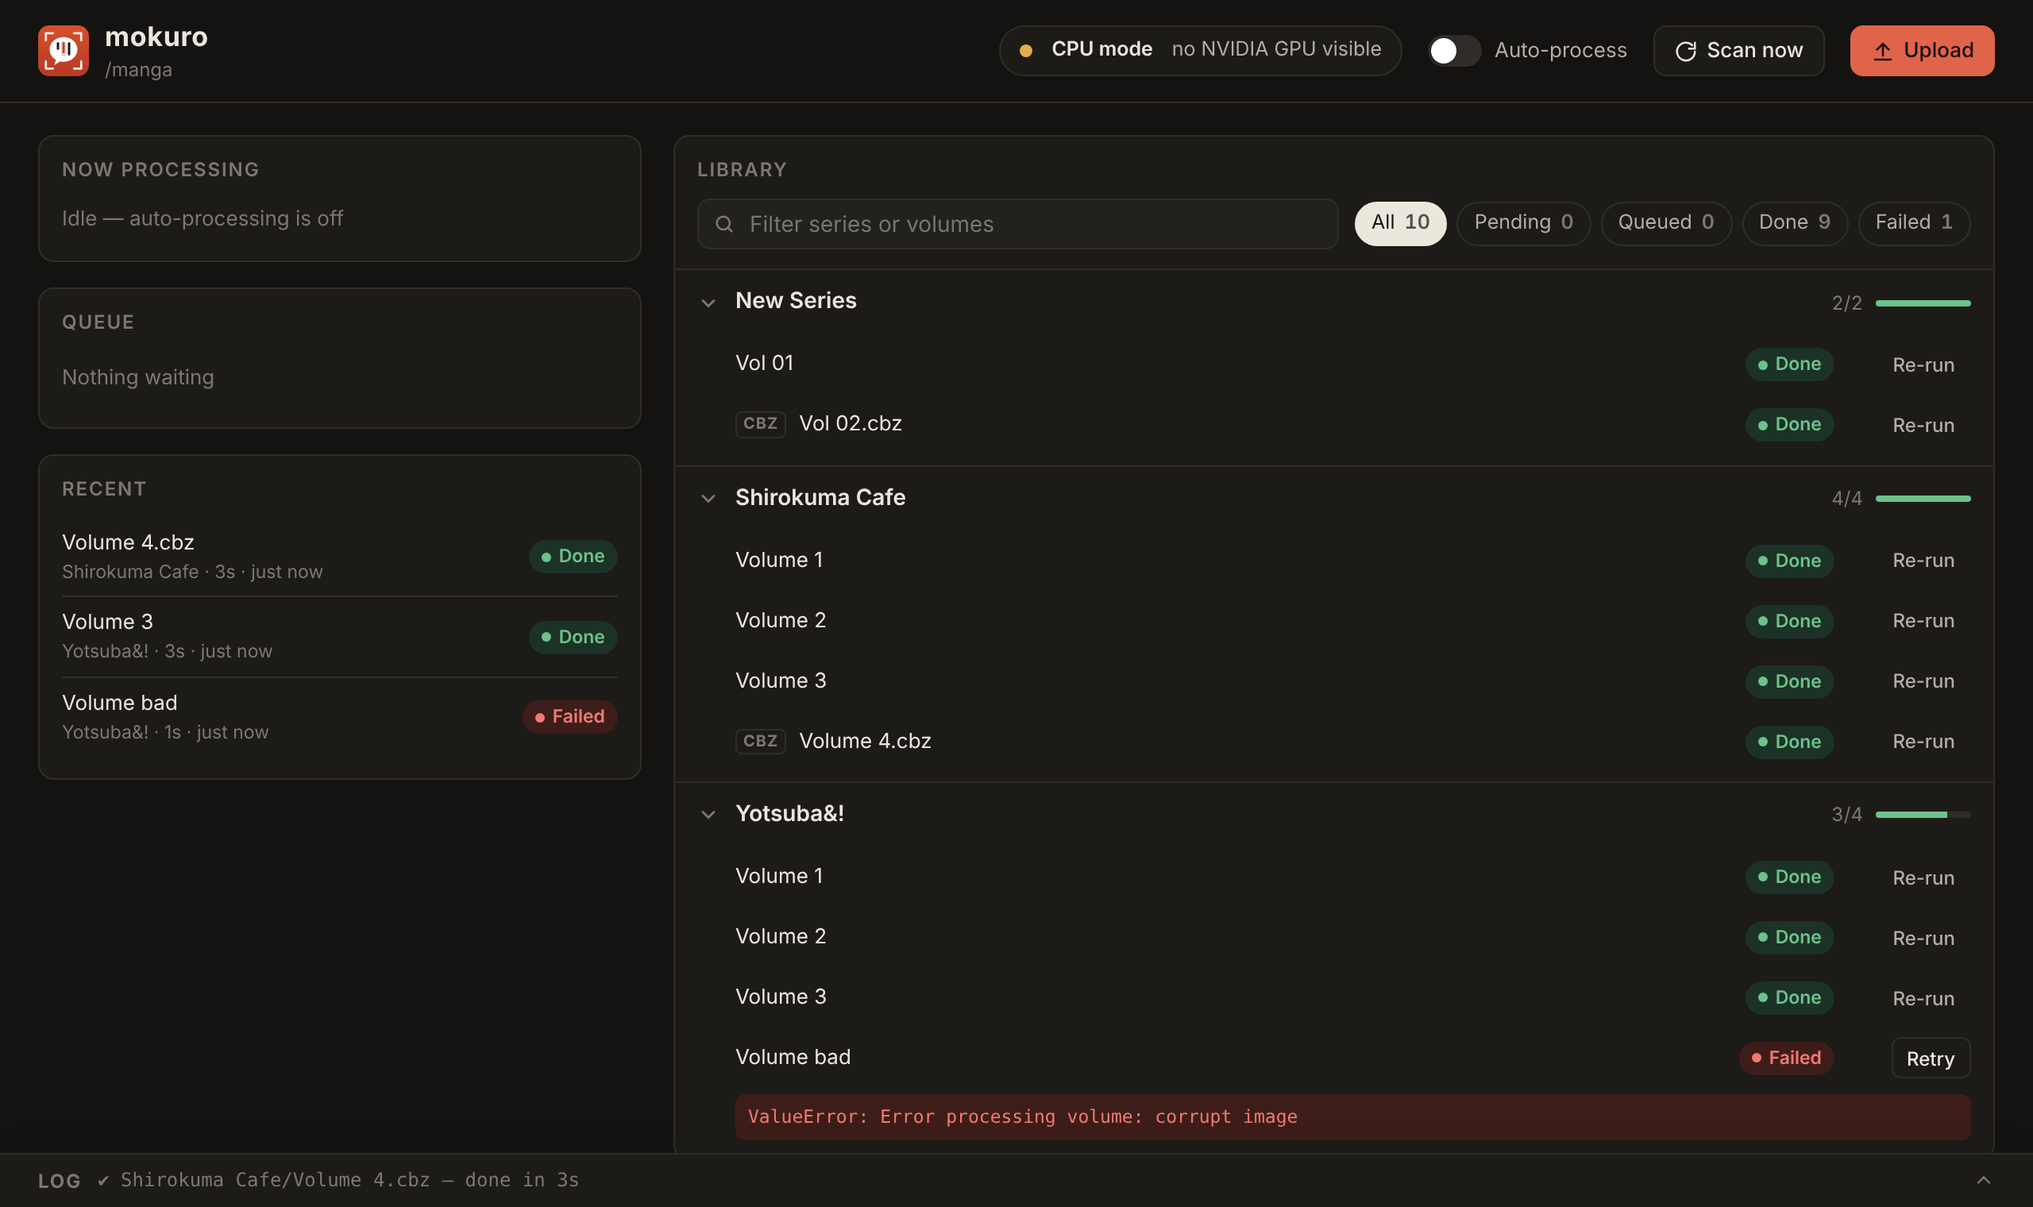
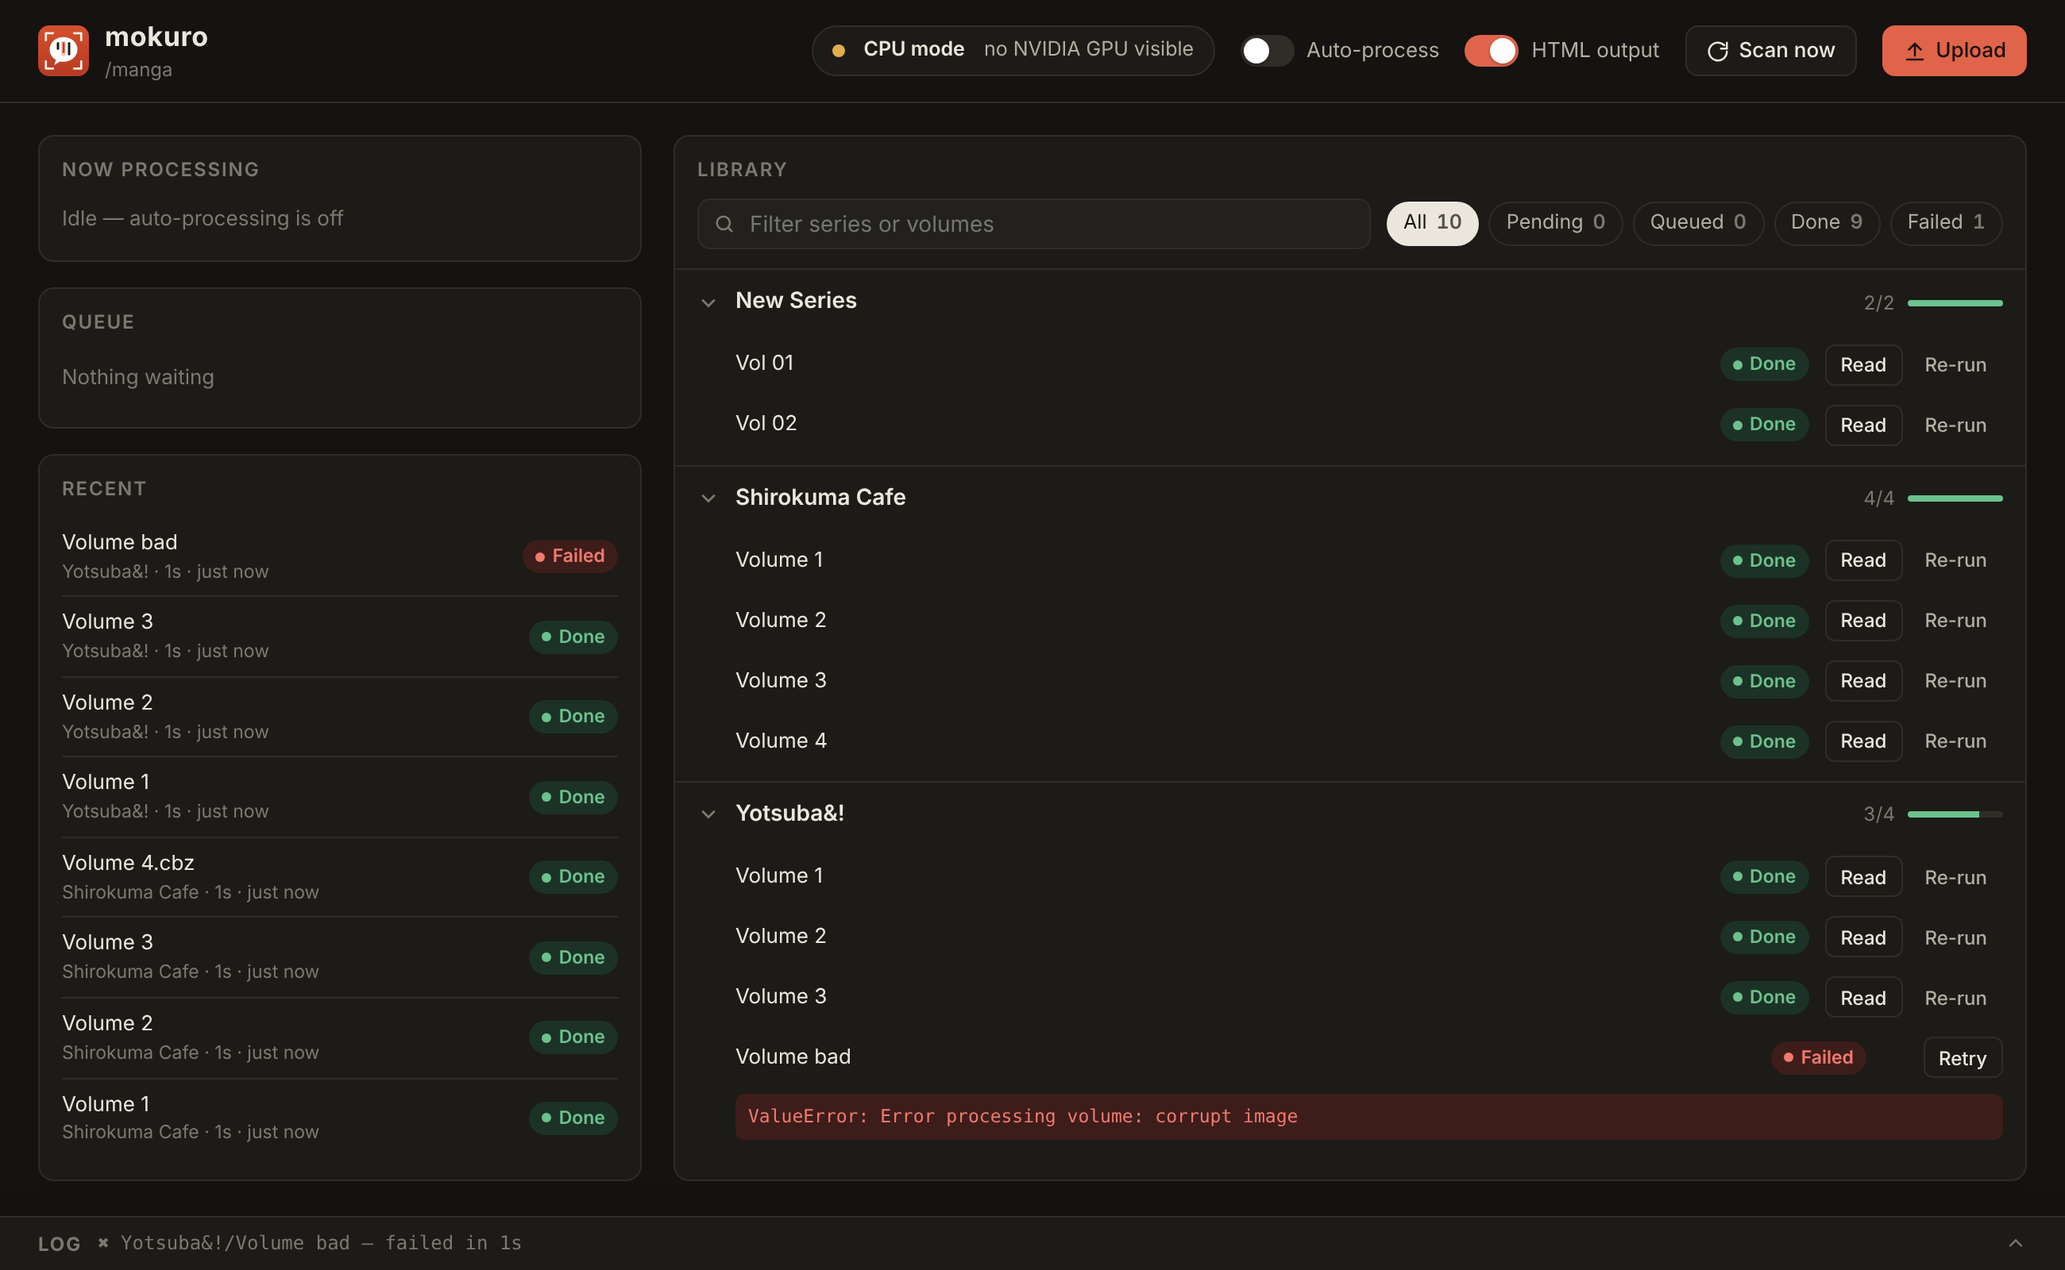
Add HTML output switch and Read button
- "HTML output" switch in the web UI (initial state from OUTPUT_HTML),
  passed to mokuro as --legacy_html; html flags in EXTRA_ARGS are ignored
- Finished volumes without HTML show as "Needs HTML" and are backfilled
  from the existing OCR results, so no OCR is redone
- A volume only counts as done when its .html exists (if HTML is on)
- Read button opens the HTML page, served read-only from the manga folder
- CI smoke test now also checks real mokuro writes the HTML

Claude-Session: https://claude.ai/code/session_01MbTrHRwZ7rekRcSkchKqqL

diff --git a/static/index.html b/static/index.html
@@ -94,6 +94,7 @@ header {
 .toggle input:checked + .switch::after { transform: translateX(14px); }
 
 .btn {
+  text-decoration: none; color: inherit;
   display: inline-flex; align-items: center; gap: 6px; height: 32px; padding: 0 12px;
   border-radius: 8px; border: 1px solid var(--line); background: var(--panel);
   font-size: 13px; font-weight: 500; white-space: nowrap; transition: background .15s, border-color .15s;
@@ -157,6 +158,7 @@ aside { display: flex; flex-direction: column; gap: 16px; min-width: 0; }
 .b-done { background: var(--ok-soft); color: var(--ok); }
 .b-pending { background: var(--panel-2); color: var(--ink-2); border: 1px solid var(--line); }
 .b-settling { background: var(--panel-2); color: var(--ink-3); border: 1px dashed var(--line); }
+.b-needs_html { background: var(--warn-soft); color: var(--warn); }
 .b-queued { background: var(--info-soft); color: var(--info); }
 .b-processing { background: var(--accent-soft); color: var(--accent); }
 .b-processing::before { animation: pulse 1s ease-in-out infinite; }
@@ -256,6 +258,9 @@ label.field input:focus { border-color: var(--accent); }
   <div class="gpu" id="gpu" title=""><span class="dot"></span><span class="name">Checking GPU…</span></div>
   <label class="toggle" title="Automatically queue new volumes found in the manga folder">
     <input type="checkbox" id="watch"><span class="switch"></span>Auto-process
+  </label>
+  <label class="toggle" title="Also write an HTML page for each volume that you can open from the Read button or any browser. .cbz files get extracted next to the archive, which uses extra disk space.">
+    <input type="checkbox" id="htmlOut"><span class="switch"></span>HTML output
   </label>
   <button class="btn" id="scanBtn" title="Look for new volumes now and queue them">
     <svg viewBox="0 0 24 24" fill="none" stroke="currentColor" stroke-width="2" stroke-linecap="round"><path d="M21 12a9 9 0 1 1-2.6-6.4"/><path d="M21 3v6h-6"/></svg>Scan now
@@ -387,7 +392,7 @@ function ago(t) {
   if (s < 86400) return Math.floor(s / 3600) + " h ago";
   return new Date(t * 1000).toLocaleDateString();
 }
-const LABEL = { done: "Done", pending: "Pending", settling: "Copying", queued: "Queued", processing: "Processing", failed: "Failed", cancelled: "Cancelled" };
+const LABEL = { done: "Done", pending: "Pending", settling: "Copying", needs_html: "Needs HTML", queued: "Queued", processing: "Processing", failed: "Failed", cancelled: "Cancelled" };
 const badge = s => `<span class="badge b-${s}">${LABEL[s] || s}</span>`;
 
 /* ---------------- status polling ---------------- */
@@ -409,6 +414,7 @@ function renderHeader() {
   const g = status.gpu, el = $("#gpu");
   $("#mangaDir").textContent = status.settings.manga_dir;
   $("#watch").checked = status.watch;
+  $("#htmlOut").checked = status.html;
   const cpu = !g.available || g.force_cpu || g.cuda === false;
   el.classList.toggle("cpu", cpu);
   if (!g.available) {
@@ -487,17 +493,17 @@ function liveStatus(v) {
 function renderLibrary() {
   if (!lib) return;
   const counts = { all: 0, pending: 0, queued: 0, processing: 0, done: 0, failed: 0 };
-  lib.series.forEach(s => s.volumes.forEach(v => { v._s = liveStatus(v); counts.all++; const k = v._s === "settling" ? "pending" : v._s; counts[k] = (counts[k] || 0) + 1; }));
+  lib.series.forEach(s => s.volumes.forEach(v => { v._s = liveStatus(v); counts.all++; const k = v._s === "settling" || v._s === "needs_html" ? "pending" : v._s; counts[k] = (counts[k] || 0) + 1; }));
 
   const chips = [["all", "All"], ["pending", "Pending"], ["queued", "Queued"], ["done", "Done"], ["failed", "Failed"]];
   $("#chips").innerHTML = chips.map(([k, l]) => `<button class="chip ${filter === k ? "on" : ""}" data-f="${k}">${l} <b>${counts[k] + (k === "queued" ? counts.processing : 0)}</b></button>`).join("");
   $("#chips").querySelectorAll(".chip").forEach(c => c.onclick = () => { filter = c.dataset.f; store.set("filter", filter); renderLibrary(); });
-  $("#queueAll").classList.toggle("hidden", !lib.series.some(s => s.volumes.some(v => v._s === "pending")));
+  $("#queueAll").classList.toggle("hidden", !lib.series.some(s => s.volumes.some(v => v._s === "pending" || v._s === "needs_html")));
   $("#seriesList").innerHTML = lib.series.filter(s => s.path).map(s => `<option value="${esc(s.path)}">`).join("");
 
   const q = query.toLowerCase();
   const match = v => {
-    const f = filter === "all" || v._s === filter || (filter === "pending" && v._s === "settling") || (filter === "queued" && v._s === "processing");
+    const f = filter === "all" || v._s === filter || (filter === "pending" && (v._s === "settling" || v._s === "needs_html")) || (filter === "queued" && v._s === "processing");
     return f;
   };
   let html = "";
@@ -506,7 +512,7 @@ function renderLibrary() {
     const vols = s.volumes.filter(v => match(v) && (seriesHit || v.name.toLowerCase().includes(q)));
     if (!vols.length) continue;
     const done = s.volumes.filter(v => v._s === "done").length;
-    const pending = s.volumes.filter(v => v._s === "pending").length;
+    const pending = s.volumes.filter(v => v._s === "pending" || v._s === "needs_html").length;
     const isClosed = closed.has(s.path) && !q;
     html += `<div class="series ${isClosed ? "closed" : ""}" data-s="${esc(s.path)}">
       <div class="series-h">
@@ -543,8 +549,10 @@ function volRow(v) {
   const s = v._s;
   let btn = "";
   if (s === "pending" || s === "settling") btn = `<button class="btn sm" data-a="run" data-p="${esc(v.path)}">Process</button>`;
+  else if (s === "needs_html") btn = `<button class="btn sm" data-a="run" data-p="${esc(v.path)}" title="OCR is done; this only writes the HTML page">Make HTML</button>`;
   else if (s === "failed") btn = `<button class="btn sm" data-a="run" data-p="${esc(v.path)}">Retry</button>`;
-  else if (s === "done") btn = `<button class="btn sm ghost" data-a="rerun" data-p="${esc(v.path)}" title="Run OCR again">Re-run</button>`;
+  else if (s === "done") btn = (v.html ? `<a class="btn sm" href="/files/${v.html.split("/").map(encodeURIComponent).join("/")}" target="_blank" rel="noopener" title="Open the HTML reader in a new tab">Read</a>` : "")
+    + `<button class="btn sm ghost" data-a="rerun" data-p="${esc(v.path)}" title="Run OCR again">Re-run</button>`;
   else if (s === "queued") btn = `<button class="btn sm ghost" data-a="unqueue" data-p="${esc(v.path)}">Remove</button>`;
   else if (s === "processing") btn = `<button class="btn sm ghost danger" data-a="cancel" data-p="${esc(v.path)}">Cancel</button>`;
   return `<div class="vol">
@@ -593,6 +601,8 @@ if (store.get("logOpen", false)) $("#log").classList.add("open");
 
 /* ---------------- header actions ---------------- */
 $("#watch").onchange = e => act(() => api("/api/watch", { enabled: e.target.checked }));
+$("#htmlOut").onchange = e => act(() => api("/api/html", { enabled: e.target.checked }),
+  e.target.checked ? "HTML output on — finished volumes will get an HTML page" : "HTML output off");
 $("#scanBtn").onclick = () => act(() => api("/api/scan", {}), "Scanning…");
 $("#queueAll").onclick = () => act(async () => { const r = await api("/api/queue/pending", {}); toast(`Queued ${r.queued} volume(s)`); });
 $("#clearQ").onclick = () => { if (confirm("Remove everything from the queue?")) act(() => api("/api/queue/clear", {})); };

diff --git a/app.py b/app.py
@@ -31,17 +31,13 @@ WATCH = os.environ.get("WATCH", "true").lower() == "true"
 SCAN_INTERVAL = int(os.environ.get("SCAN_INTERVAL", "300"))
 SETTLE_SECONDS = int(os.environ.get("SETTLE_SECONDS", "120"))
 FORCE_CPU = os.environ.get("FORCE_CPU", "false").lower() == "true"
+OUTPUT_HTML = os.environ.get("OUTPUT_HTML", "false").lower() == "true"
+
+
 def _normalise_args(args):
-    """mokuro's README mentions --disable_html, but the released 0.2.x CLI calls it --legacy_html."""
-    out = []
-    for a in args:
-        name, _, val = a.partition("=")
-        if name == "--disable_html":
-            if val.lower() in ("", "true", "1"):
-                out.append("--legacy_html=False")
-            continue
-        out.append(a)
-    return out
+    """HTML output is controlled by the UI switch, so drop any html flags from EXTRA_ARGS.
+    (mokuro's README calls it --disable_html; the released 0.2.x CLI calls it --legacy_html.)"""
+    return [a for a in args if a.partition("=")[0] not in ("--disable_html", "--legacy_html", "--legacy-html")]
 
 
 EXTRA_ARGS = _normalise_args(os.environ.get("EXTRA_ARGS", "").split())
@@ -69,6 +65,7 @@ class State:
         self.logs = deque(maxlen=2000)
         self.log_seq = 0
         self.watch = WATCH
+        self.html = OUTPUT_HTML
         self.last_scan = None
         self.proc = None
         self.cancel_requested = False
@@ -88,6 +85,8 @@ class State:
         self.queue = data.get("queue", [])
         if "watch" in data:
             self.watch = data["watch"]
+        if "html" in data:
+            self.html = data["html"]
 
     def save(self):
         with self.lock:
@@ -96,6 +95,7 @@ class State:
                 "history": list(self.history),
                 "queue": self.queue,
                 "watch": self.watch,
+                "html": self.html,
             }
         try:
             tmp = STATE_FILE.with_suffix(".tmp")
@@ -152,6 +152,12 @@ def target_for(vol: Path) -> Path:
     return vol.parent / f"{vol.name}.mokuro"
 
 
+def html_for(vol: Path) -> Path:
+    # mokuro writes <title dir>/<volume dir name>.html; an archive is extracted to <stem>/ first
+    name = vol.stem if vol.is_file() else vol.name
+    return vol.parent / f"{name}.html"
+
+
 def newest_mtime(p: Path) -> float:
     try:
         t = p.stat().st_mtime
@@ -170,8 +176,10 @@ def natural_key(s: str):
     return [int(t) if t.isdigit() else t.lower() for t in re.split(r"(\d+)", s)]
 
 
-def build_cmd(args):
-    cmd = ["mokuro", "--disable_confirmation=True"]
+def build_cmd(args, html=None):
+    if html is None:
+        html = S.html
+    cmd = ["mokuro", "--disable_confirmation=True", f"--legacy_html={html}"]
     if FORCE_CPU:
         cmd.append("--force_cpu=True")
     return cmd + EXTRA_ARGS + [str(a) for a in args]
@@ -202,20 +210,25 @@ def library(refresh=False):
         queued = {q["path"] for q in S.queue}
         current = S.current["path"] if S.current else None
         failures = dict(S.failures)
+        want_html = S.html
 
     now = time.time()
     groups = {}
     for vol in find_volumes():
         r = rel(vol)
         target = target_for(vol)
+        html = html_for(vol)
+        has_html = html.exists()
         if r == current:
             status = "processing"
         elif r in queued:
             status = "queued"
-        elif target.exists():
+        elif target.exists() and (has_html or not want_html):
             status = "done"
         elif r in failures:
             status = "failed"
+        elif target.exists():
+            status = "needs_html"   # OCR done, HTML wanted but missing: quick, no OCR needed
         elif now - newest_mtime(vol) < SETTLE_SECONDS:
             status = "settling"
         else:
@@ -228,10 +241,11 @@ def library(refresh=False):
             "kind": "archive" if vol.is_file() else "folder",
             "status": status,
             "error": failures.get(r, {}).get("error") if status == "failed" else None,
+            "html": rel(html) if has_html else None,
         })
 
     series_list = []
-    counts = {"all": 0, "pending": 0, "done": 0, "failed": 0, "queued": 0, "processing": 0, "settling": 0}
+    counts = {"all": 0, "pending": 0, "needs_html": 0, "done": 0, "failed": 0, "queued": 0, "processing": 0, "settling": 0}
     for s_rel in sorted(groups, key=natural_key):
         vols = sorted(groups[s_rel], key=lambda v: natural_key(v["name"]))
         for v in vols:
@@ -269,7 +283,7 @@ def queue_pending(series: Optional[str] = None) -> int:
         if series is not None and s["path"] != series:
             continue
         for v in s["volumes"]:
-            if v["status"] == "pending" and enqueue(v["path"]):
+            if v["status"] in ("pending", "needs_html") and enqueue(v["path"]):
                 n += 1
     return n
 
@@ -366,12 +380,16 @@ def run_job(item):
     args = []
     if item.get("no_cache"):
         args.append("--no_cache=True")
-    cmd = build_cmd(args + [vol])
+    with S.lock:
+        want_html = S.html
+    html_only = target.exists()   # OCR already done: mokuro reuses it and just writes the HTML
+    html_path = html_for(vol)
+    cmd = build_cmd(args + [vol], html=want_html)
 
     started = time.time()
     with S.lock:
-        S.current = {"path": r, "started": started, "done": 0, "total": 0,
-                     "eta": None, "rate": None, "stage": "Loading models"}
+        S.current = {"path": r, "started": started, "done": 0, "total": 0, "eta": None, "rate": None,
+                     "stage": "Writing HTML" if html_only else "Loading models"}
         S.cancel_requested = False
     S.invalidate()
     S.log(f"▶ {r}")
@@ -401,7 +419,8 @@ def run_job(item):
             done, total, eta, rate = prog
             with S.lock:
                 if S.current:
-                    S.current.update(done=done, total=total, eta=eta, rate=rate, stage="OCR")
+                    S.current.update(done=done, total=total, eta=eta, rate=rate,
+                                     stage="Writing HTML" if html_only else "OCR")
             return
         tail.append(line)
         S.log(line)
@@ -424,7 +443,7 @@ def run_job(item):
         cancelled = S.cancel_requested
         S.proc = None
         S.current = None
-        ok = rc == 0 and target.exists() and not cancelled
+        ok = rc == 0 and target.exists() and (html_path.exists() or not want_html) and not cancelled
         if cancelled:
             result = "cancelled"
         elif ok:
@@ -433,6 +452,8 @@ def run_job(item):
         else:
             result = "failed"
             err = next((l for l in reversed(tail) if "error" in l.lower()), None) or (tail[-1] if tail else f"exit code {rc}")
+            if target.exists() and want_html and not html_path.exists() and "error" not in err.lower():
+                err = "OCR finished but no HTML file was written. " + err
             S.failures[r] = {"error": err[-400:], "time": time.time(), "image": IMAGE_VERSION}
         S.history.appendleft({"path": r, "result": result, "duration": duration, "finished": time.time()})
     S.invalidate()
@@ -519,6 +540,10 @@ class WatchBody(BaseModel):
     enabled: bool
 
 
+class HtmlBody(BaseModel):
+    enabled: bool
+
+
 @app.get("/healthz")
 def healthz():
     return {"ok": True}
@@ -543,6 +568,7 @@ def status(since: int = 0):
             "queue": list(S.queue),
             "history": list(S.history)[:25],
             "watch": S.watch,
+            "html": S.html,
             "last_scan": S.last_scan,
             "logs": logs[-500:],
             "log_seq": S.log_seq,
@@ -635,6 +661,33 @@ def set_watch(body: WatchBody):
     if body.enabled:
         S.scan_now.set()
     return {"watch": S.watch}
+
+
+@app.post("/api/html")
+def set_html(body: HtmlBody):
+    with S.lock:
+        S.html = body.enabled
+    S.invalidate()
+    S.save()
+    S.log(f"HTML output {'on' if body.enabled else 'off'}"
+          + (" — finished volumes without HTML will get it (no new OCR needed)" if body.enabled else ""))
+    if body.enabled and S.watch:
+        S.scan_now.set()
+    return {"html": S.html}
+
+
+@app.get("/files/{path:path}")
+def files(path: str):
+    """Serves the manga folder read-only so the generated HTML pages (and their images) open in the browser."""
+    try:
+        p = resolve_rel(path)
+    except ValueError:
+        raise HTTPException(404)
+    if any(part.startswith(".") for part in Path(path).parts) or not p.is_file():
+        raise HTTPException(404)
+    if p.suffix.lower() == ".html":
+        return FileResponse(p, media_type="text/html; charset=utf-8")
+    return FileResponse(p)
 
 
 def clean_parts(path: str):

diff --git a/README.md b/README.md
@@ -14,6 +14,7 @@ Open `http://<unraid-ip>:8090` (or click **WebUI** on the container icon).
 - **Now processing**: live page progress, speed and time left, with a Cancel button.
 - **Queue / Recent**: what's waiting and what just finished, with how long each took.
 - **Auto-process switch**: when on, new volumes are queued automatically every scan. **Scan now** checks immediately.
+- **HTML output switch**: also write mokuro's HTML reader page for each volume, opened with the **Read** button (or from the share in any browser). Turning it on adds HTML to volumes that are already done without redoing the OCR, so it takes seconds per volume.
 - **Upload**: drag in `.cbz`/`.zip` files or folders of images, choose (or type a new) series name, and they're saved to the share and queued.
 - **GPU chip**: card name, utilisation, VRAM and temperature, or a warning if it's running on the CPU.
 - **Log**: click the bar at the bottom for mokuro's output.
@@ -49,6 +50,9 @@ manga/
 ├─ Series A/
 │  ├─ vol1/          ← folder of images  → Series A/vol1.mokuro
 │  └─ vol2.cbz       ← archive           → Series A/vol2.mokuro (read straight from the archive)
+│
+│  with HTML output on, also:            → Series A/vol1.html, Series A/vol2.html
+│                                          (vol2.cbz is extracted to vol2/ first, as the HTML needs loose images)
 └─ Series B/ ...
 ```
 
@@ -61,9 +65,10 @@ Volumes that already have a `.mokuro` file count as done, so restarts are safe. 
 | `WEBUI_PORT` | `8090` | Port the UI listens on inside the container |
 | `WEBUI_PASSWORD` | *(empty)* | If set, the browser asks for a login: any username + this password |
 | `WATCH` | `true` | Initial state of the Auto-process switch (the UI remembers changes) |
+| `OUTPUT_HTML` | `false` | Initial state of the HTML output switch (the UI remembers changes) |
 | `SCAN_INTERVAL` | `300` | Seconds between automatic scans |
 | `SETTLE_SECONDS` | `120` | Wait this long after the last change before processing |
-| `EXTRA_ARGS` | `--legacy_html=False` | Passed to mokuro. Remove to also get legacy HTML output |
+| `EXTRA_ARGS` | *(empty)* | Extra options passed to mokuro (any HTML option here is ignored; use the switch) |
 | `FORCE_CPU` | `false` | Ignore the GPU |
 | `PUID` / `PGID` / `UMASK` | `99` / `100` / `000` | Ownership of created files (Unraid nobody:users) |
 
